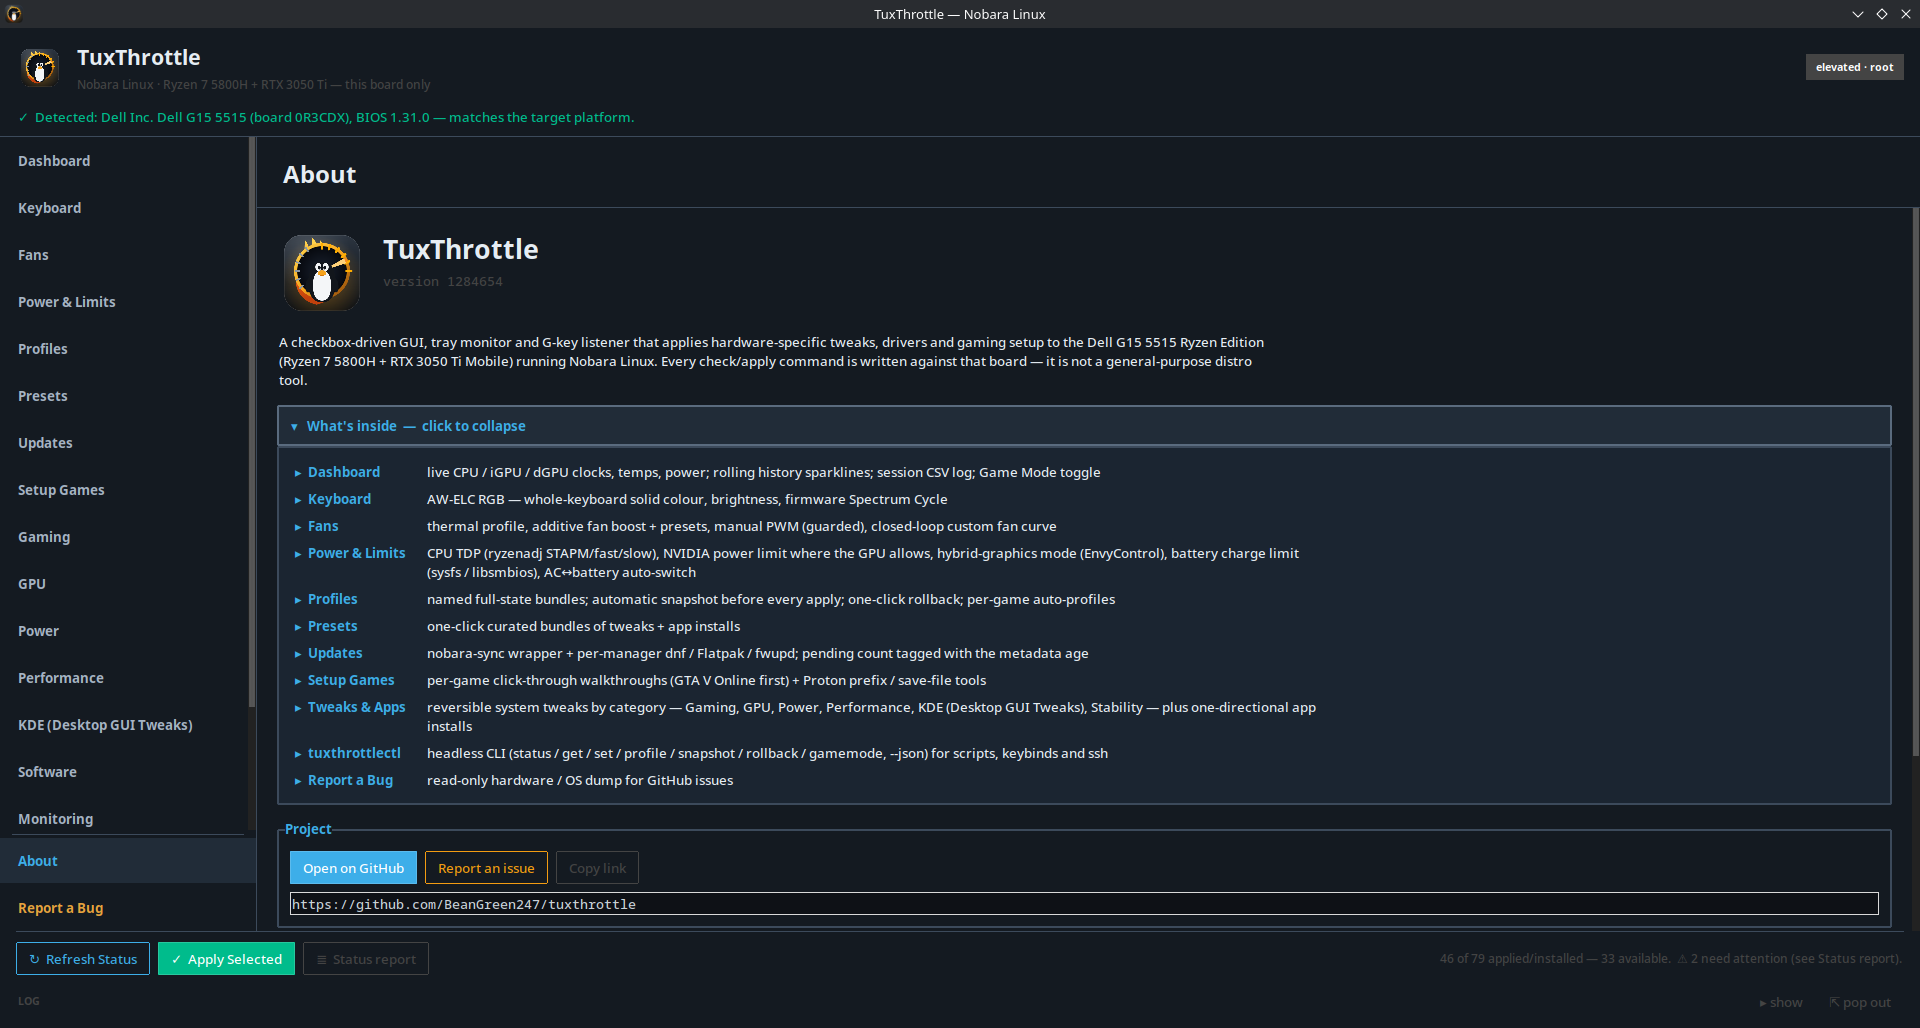
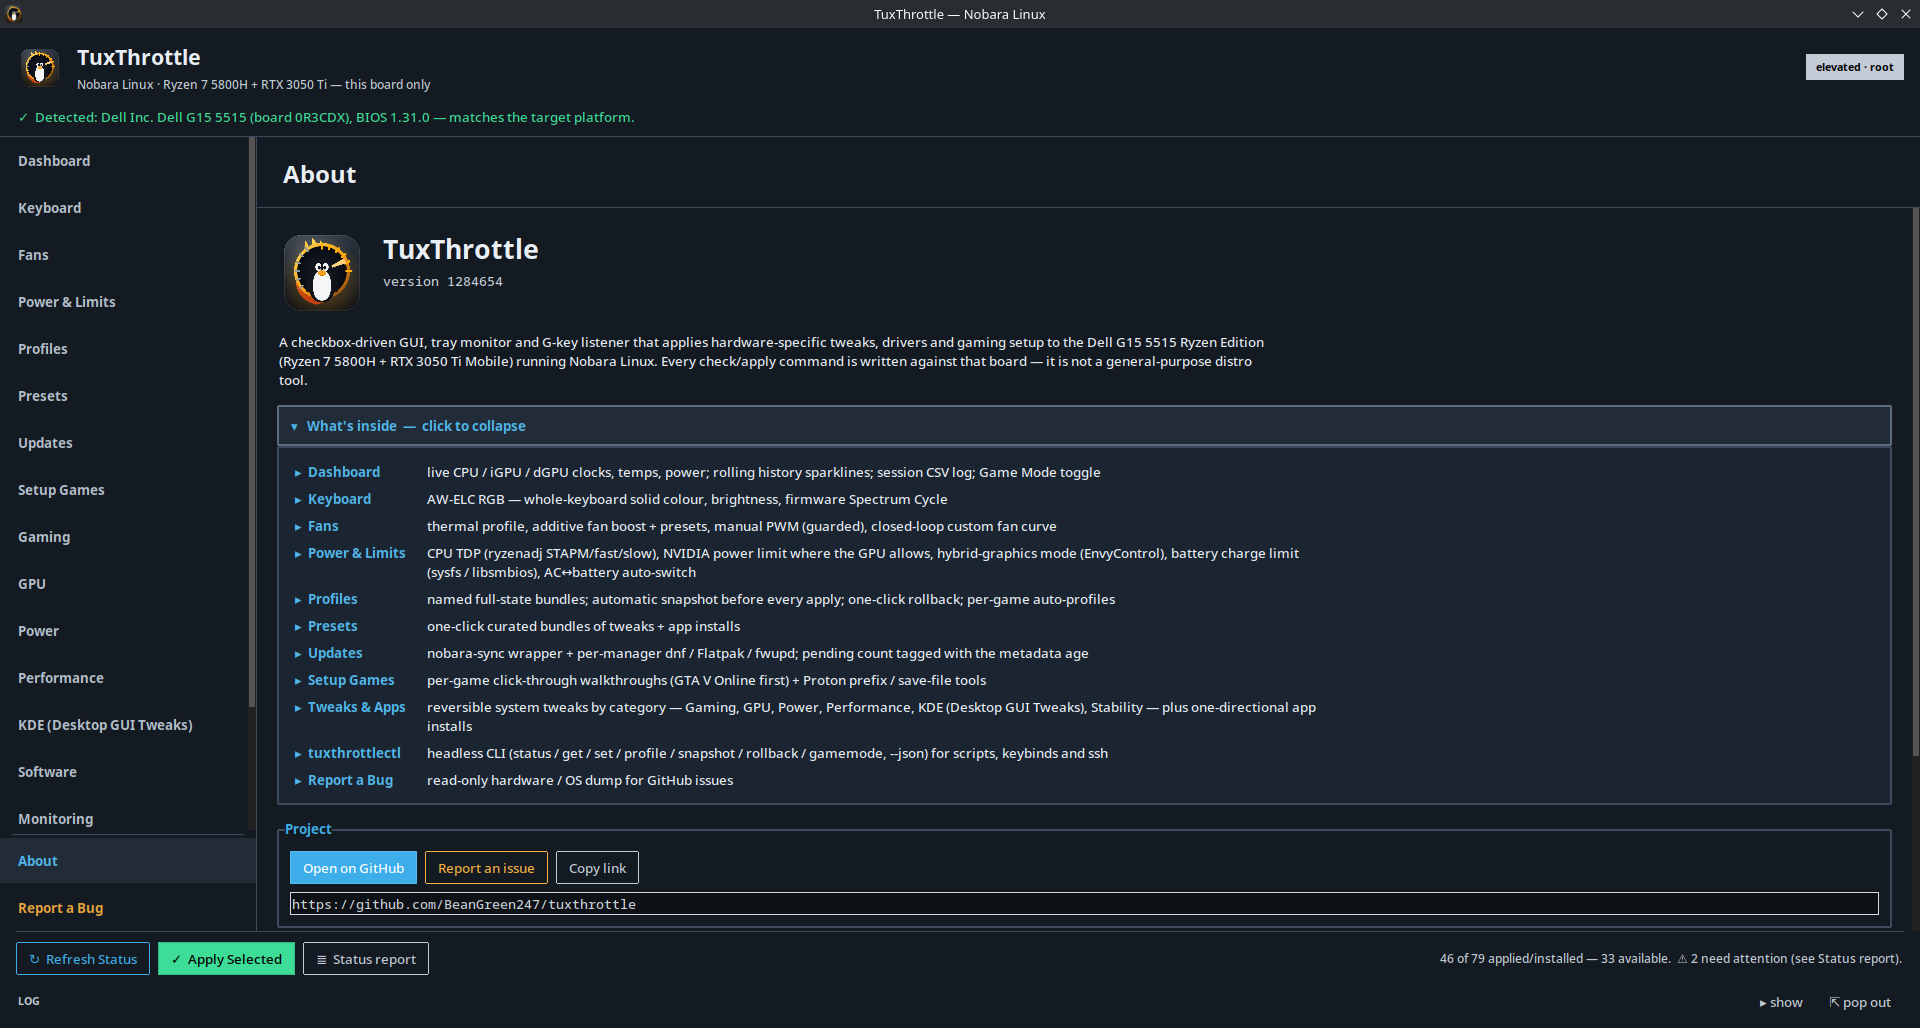
ui: contrast audit — lift every text colour that failed AA on the darker surfaces
Ran a fg/bg contrast matrix over every text colour × every panel surface
(PANEL / SUNKEN / PANEL_HI / CARD / BANNER / log). Offenders fixed:
- darkly 'danger' 3.7:1 on cards/hover  -> SEM_DANGER #ff7b70  (5.6+ min)
- darkly 'info'/accent text on cards     -> accent_txt now targets 6:1 not 4.5
- bootstyle=SECONDARY body text          -> c.secondary = SEM_SECONDARY #c3ccd6 (8.7)
- sparkline axis / point labels #39404a  1.7:1 (invisible) -> CHART_AXIS #8b98a8
- also lifted BIOS_FG, BIOS_MUTED, warning/success, and the nav/amber hover
  targets (4.0 -> 5.0/6.0).
All semantic colours now clear >=5.5:1 on every surface (most >=7).

diff --git a/tuxthrottle.py b/tuxthrottle.py
@@ -164,11 +164,19 @@ BIOS_PANEL = "#141a21"        # the surface — all widget backgrounds
 BIOS_SUNKEN = "#0b0e12"       # troughs / window ground (darker, so troughs read)
 BIOS_BG = BIOS_SUNKEN         # back-compat alias (busy overlay etc.)
 BIOS_PANEL_HI = "#212c38"     # hover / selected nav row / disclosure headers
-BIOS_FG = "#e6edf3"
-BIOS_MUTED = "#a6b4c4"        # secondary text — lifted for legibility on the dark panel
+BIOS_FG = "#e9eff5"
+BIOS_MUTED = "#b3bfcb"        # secondary text — >= 7:1 on every panel surface
 BIOS_BORDER = "#3c4a5b"       # card / labelframe hairline — clearly visible, not invisible
 BIOS_BORDER_HI = "#5a6b7e"    # stronger edge for the active / hovered card
 BIOS_CARD = "#1b2531"         # a subtle lift above BIOS_PANEL for raised panels / rows
+CHART_AXIS = "#8b98a8"        # sparkline axis / point labels — readable, not invisible
+# semantic status colours, re-picked so each clears ~6:1 on the dark panels
+# (darkly's defaults — esp. danger/info — drop below AA on the card / hover bg)
+SEM_SUCCESS = "#3ddc97"
+SEM_DANGER = "#ff7b70"
+SEM_WARNING = "#f5b041"
+SEM_INFO = "#57c4f2"
+SEM_SECONDARY = "#c3ccd6"
 HELP_AMBER = "#e8a33d"         # the "support / bug report" accent (warm, != KDE accent)
 HELP_BANNER_BG = "#2a2314"     # dark amber tint behind the bug-report banner
 
@@ -241,19 +249,28 @@ def apply_bios_style(style: "tb.Style", accent: str) -> None:
     defensively — a theming quirk must never take the app down."""
     # accent as *text* on the dark panels must stay legible whatever the
     # desktop accent is
-    accent_txt = readable_on(accent, BIOS_PANEL, 4.5)
-    accent_txt_hi = readable_on(accent, BIOS_PANEL_HI, 4.5)
+    # headings/accents: aim past AA (>=6:1) so they read easily even when the
+    # user's desktop accent is dark
+    accent_txt = readable_on(accent, BIOS_PANEL, 6.0)
+    accent_txt_hi = readable_on(accent, BIOS_PANEL_HI, 6.0)
     try:
         c = style.colors
         c.primary = accent
         c.info = accent
         c.selectbg = accent
         c.bg = BIOS_PANEL
+        c.fg = BIOS_FG
         c.dark = BIOS_PANEL
         c.light = BIOS_PANEL
         c.border = BIOS_BORDER
         c.active = BIOS_PANEL_HI
         c.inputbg = BIOS_SUNKEN
+        # re-pick the semantic colours so status text/outlines clear AA on the
+        # darker card / hover surfaces, not just on the base panel
+        c.secondary = SEM_SECONDARY
+        c.success = SEM_SUCCESS
+        c.danger = SEM_DANGER
+        c.warning = SEM_WARNING
     except Exception:  # noqa: BLE001
         pass
 
@@ -305,12 +322,12 @@ def apply_bios_style(style: "tb.Style", accent: str) -> None:
         # the odd one out: the Bug Report / Logs page — warm amber, not the
         # KDE accent, so it reads as "support / external", not a hardware tab
         "NavSupport.TButton": {"background": BIOS_PANEL,
-                               "foreground": readable_on(HELP_AMBER, BIOS_PANEL, 4.5),
+                               "foreground": readable_on(HELP_AMBER, BIOS_PANEL, 6.0),
                                "bordercolor": BIOS_PANEL, "focuscolor": "",
                                "font": ("Sans", 10, "bold"), "anchor": "w",
                                "padding": (16, 11), "relief": "flat"},
         "NavSupportActive.TButton": {"background": BIOS_PANEL_HI,
-                                     "foreground": readable_on(HELP_AMBER, BIOS_PANEL_HI, 4.5),
+                                     "foreground": readable_on(HELP_AMBER, BIOS_PANEL_HI, 6.0),
                                      "bordercolor": HELP_AMBER, "focuscolor": "",
                                      "font": ("Sans", 10, "bold"), "anchor": "w",
                                      "padding": (16, 11), "relief": "flat"},
@@ -324,7 +341,7 @@ def apply_bios_style(style: "tb.Style", accent: str) -> None:
                           "font": ("Sans", 10, "bold"), "padding": (16, 8)},
         "SupportBanner.TFrame": {"background": HELP_BANNER_BG},
         "SupportBanner.TLabel": {"background": HELP_BANNER_BG,
-                                 "foreground": readable_on(HELP_AMBER, HELP_BANNER_BG, 4.5),
+                                 "foreground": readable_on(HELP_AMBER, HELP_BANNER_BG, 6.0),
                                  "font": ("Sans", 10, "bold")},
     }
     for name, opts in specs.items():
@@ -332,8 +349,8 @@ def apply_bios_style(style: "tb.Style", accent: str) -> None:
             style.configure(name, **opts)
         except Exception:  # noqa: BLE001
             pass
-    hover = readable_on(_mix(accent, "#ffffff", 0.18), BIOS_PANEL_HI, 4.0)
-    amber_hover = readable_on(_mix(HELP_AMBER, "#ffffff", 0.18), BIOS_PANEL_HI, 4.0)
+    hover = readable_on(_mix(accent, "#ffffff", 0.22), BIOS_PANEL_HI, 5.0)
+    amber_hover = readable_on(_mix(HELP_AMBER, "#ffffff", 0.22), BIOS_PANEL_HI, 5.0)
     for name in ("NavSupport.TButton", "NavSupportActive.TButton"):
         try:
             style.map(name, background=[("active", BIOS_PANEL_HI)],
@@ -458,9 +475,9 @@ class HistoryChart(tk.Canvas):
         self.create_line(pts[0], h - pad, *pts, pts[-2], h - pad,
                          fill=self._color, width=0, stipple="gray12")
         self.create_text(w - 6, h - 6, text=f"{lo:.0f}", anchor="se",
-                         fill="#39404a", font=("Sans", 7))
+                         fill=CHART_AXIS, font=("Sans", 7))
         self.create_text(w - 6, 8, text=f"{hi:.0f}", anchor="ne",
-                         fill="#39404a", font=("Sans", 7))
+                         fill=CHART_AXIS, font=("Sans", 7))
 
 
 class SidebarNav(tb.Frame):
@@ -1569,14 +1586,14 @@ class ToolkitApp:
         def X(t): return pad + (t - tmin) / (tmax - tmin) * (w - 2 * pad)
         def Y(b): return h - pad - b / 100 * (h - 2 * pad)
         for gb in (0, 25, 50, 75, 100):
-            c.create_line(pad, Y(gb), w - pad, Y(gb), fill="#20262e")
+            c.create_line(pad, Y(gb), w - pad, Y(gb), fill="#2b3542")
         pts = self._fc_points()
         acc = getattr(self, "accent", "#58a6ff")
         for (t0, b0), (t1, b1) in zip(pts, pts[1:]):
             c.create_line(X(t0), Y(b0), X(t1), Y(b1), fill=acc, width=2)
         for t, b in pts:
             c.create_oval(X(t) - 3, Y(b) - 3, X(t) + 3, Y(b) + 3, fill=acc, outline="")
-            c.create_text(X(t), Y(b) - 10, text=f"{t}°", fill="#8b949e", font=("Sans", 7))
+            c.create_text(X(t), Y(b) - 10, text=f"{t}°", fill=CHART_AXIS, font=("Sans", 7))
 
     def _fc_save(self):
         merged = self._read_power_state("powerd.json") or {}
